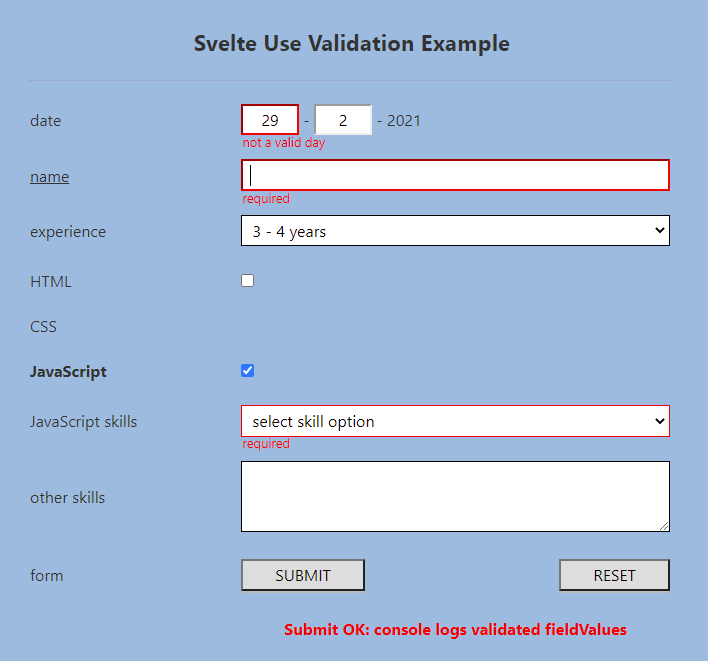
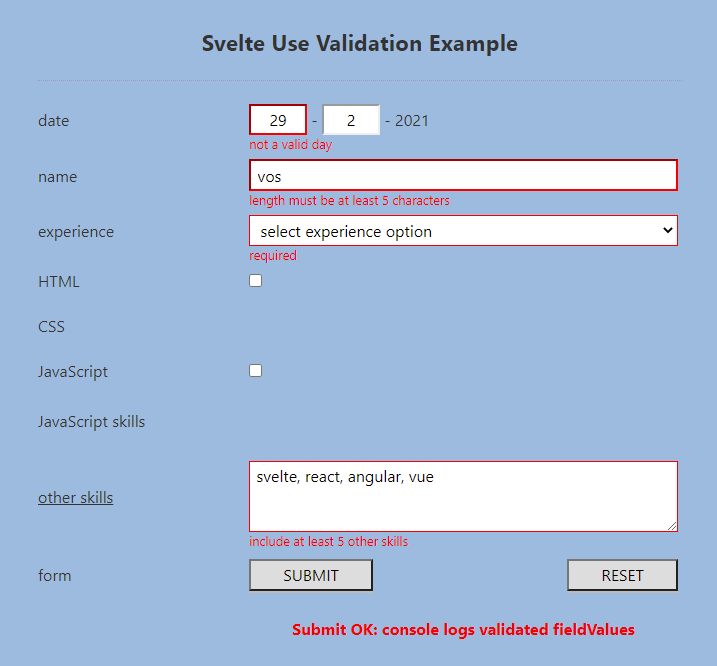
1.0.7 use validation config update 1.1.8

diff --git a/src/App.svelte b/src/App.svelte
@@ -32,14 +32,14 @@
     month: ["required", { range: { min: 1, max: 12 } }],
     name: [
       "required",
-      { len: { operator: ">=", len: 3, msg: "length must be at least 3 characters" } },
+      { len: { operator: ">=", len: 5, msg: "length must be at least 5 characters" } },
     ],
     experience: "required",
     html: "get", // if html we require css
     css: "get", // get bool
-    js: "jsSkills", // if js we rquire jsSkills
-    jsSkills: "required",
-    other: "get", // get but not required
+    jsSkills: "get",
+    js: "updateJsSkillRules", // if js we require jsSkills
+    other: { wordCount: { count: 5, msg: "include at least 5 other skills" } },
   };
 
   // reset optional fields
@@ -48,8 +48,9 @@
 
   const notValidMarkers = {}; // not used
   // initialize the validation instance with node.name as the default id
-  const { field, OK, addValidator, fieldValues, runRuleChain } = validate(
-    { rulesConfig },
+  const { field, OK, addValidator, fieldValues, runRuleChain, setNotValid } = validate(
+    // markDefault 0: no-border and no-text, 1: red-border 2: text 3: red-border and text
+    { rulesConfig, lazy: true, markDefault: 3, alertBelow: 0 },
     // callback not used
     (id, notValid, value) => {
       // callback to update bindings or signal notValid components
@@ -57,12 +58,20 @@
     }
   );
 
-  // alt rulechain selection to validate optional required jsSkills
-  addValidator("jsSkills", function () {
-    runRuleChain.jsSkills(
-      // require skill for js
-      this.value ? "required" : "get"
-    );
+  // add a basic validator with setNotValid marker
+  addValidator("wordCount", function (obj) {
+    let { count = 2, msg = `number of words min ${count}` } = obj;
+    const valid = this.value.split(" ").length >= count;
+    return setNotValid(this, !valid, msg);
+  });
+
+  // add a validator which updates jsSkill rules based on js bool
+  addValidator("updateJsSkillRules", function () {
+    if ("jsSkills" in runRuleChain)
+      runRuleChain.jsSkills(
+        // require skill for js
+        this.value ? "required" : "get"
+      );
     // this section validator is always OK, so return false
     return false;
   });
